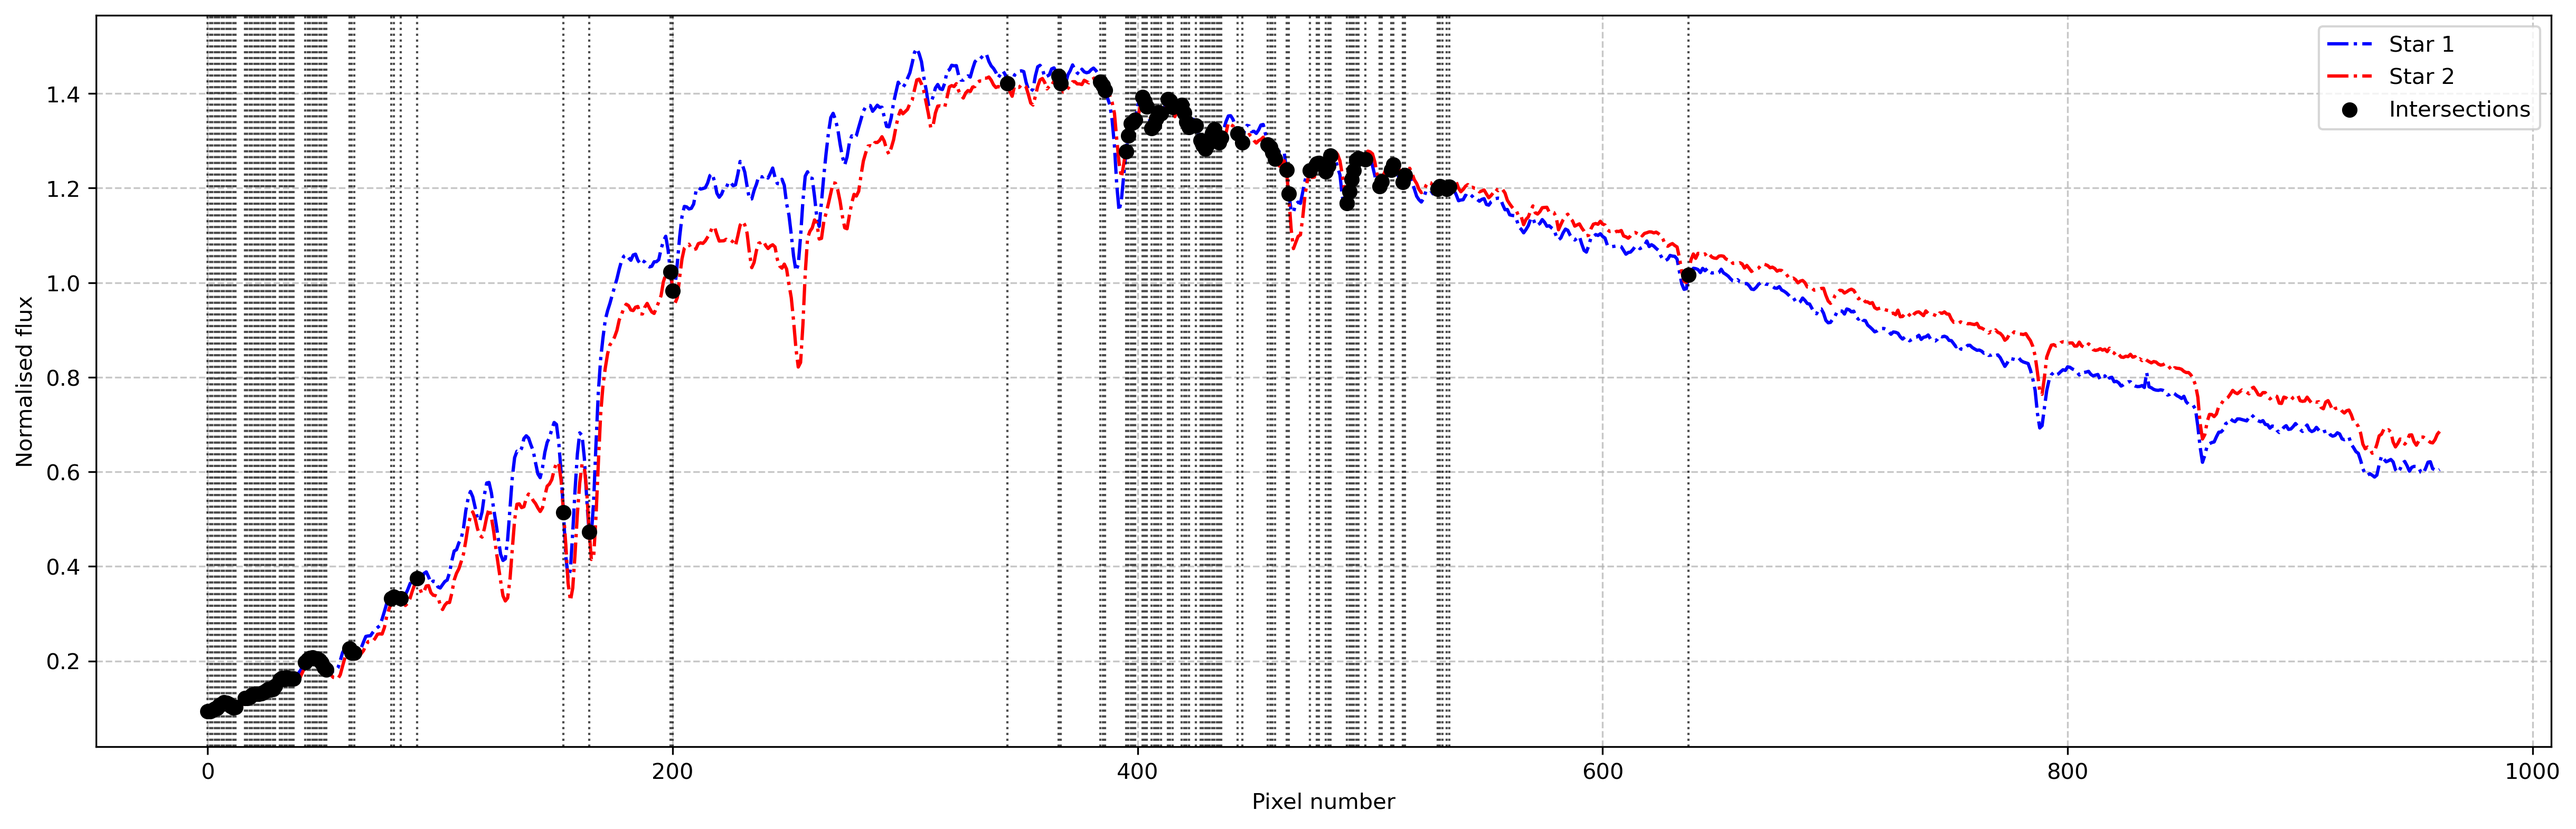
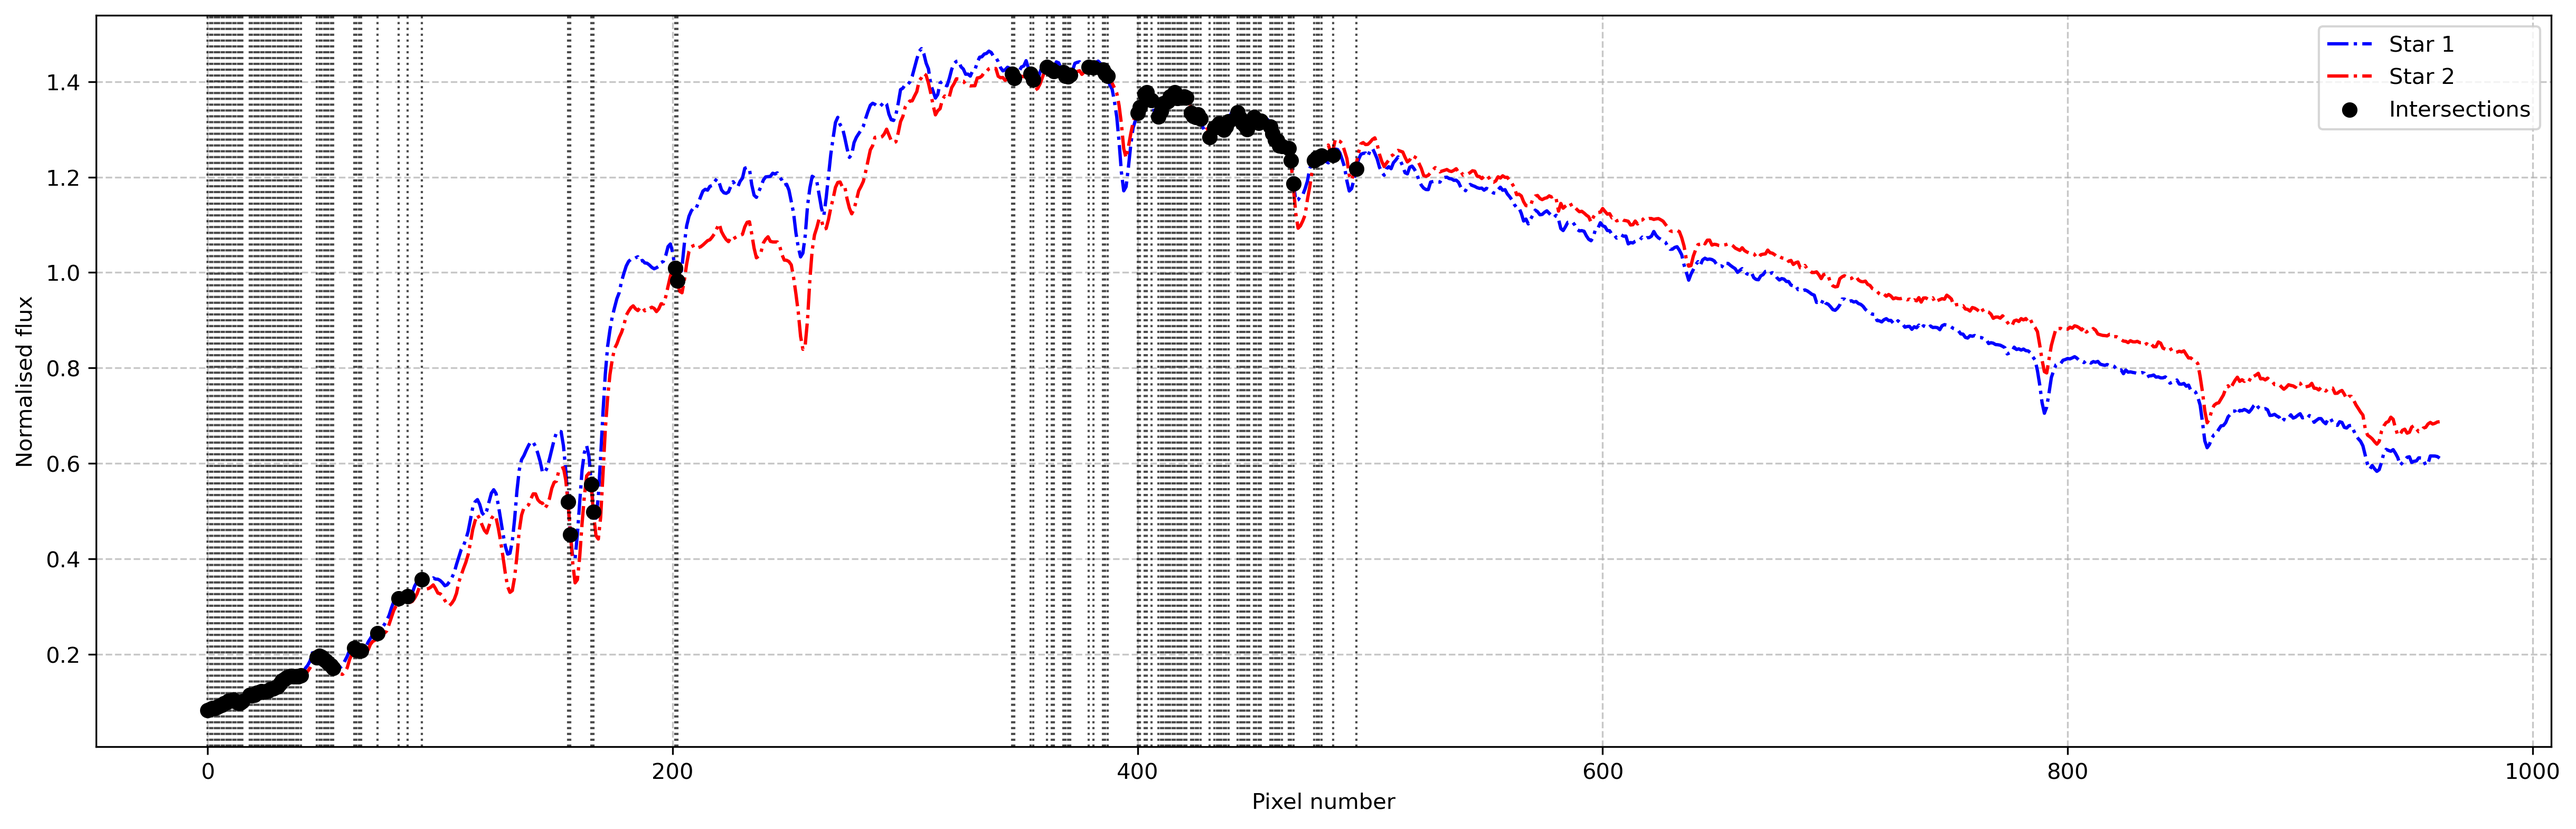
small fix...

diff --git a/src/reduction_utils/wavelength_calibration.py b/src/reduction_utils/wavelength_calibration.py
@@ -19,7 +19,7 @@ import warnings
 with warnings.catch_warnings():
     # This is to supress the warnings that are generated upon importing pysynphot and are only becuase we've not downloaded the calibration files - which are not needed by us
     warnings.filterwarnings("ignore", category=UserWarning)
-    # from synphot import SourceSpectrum, SpectralElement, Observation
+    from synphot import SourceSpectrum, SpectralElement, Observation
     from pysynphot import observation
     from pysynphot import spectrum
 
